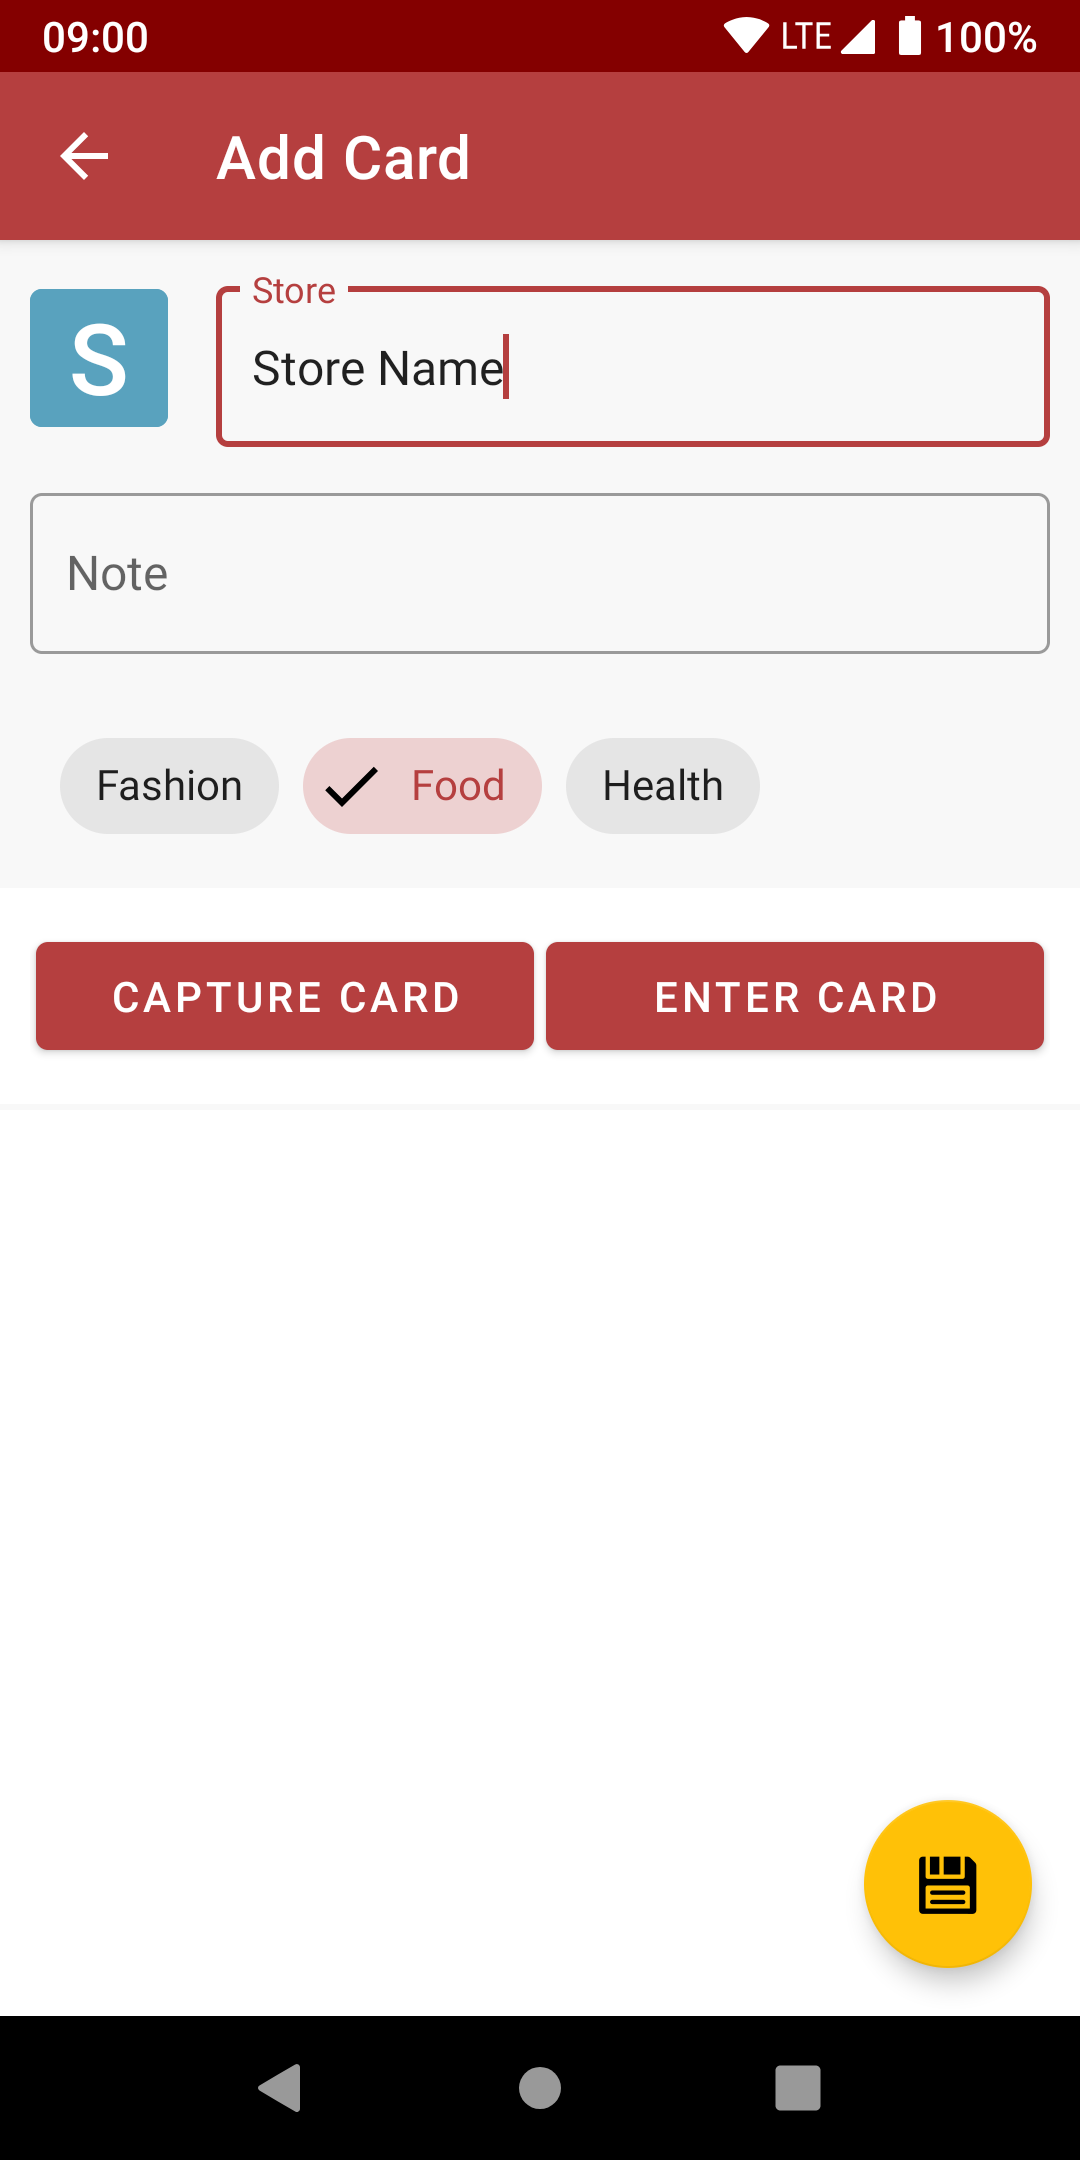
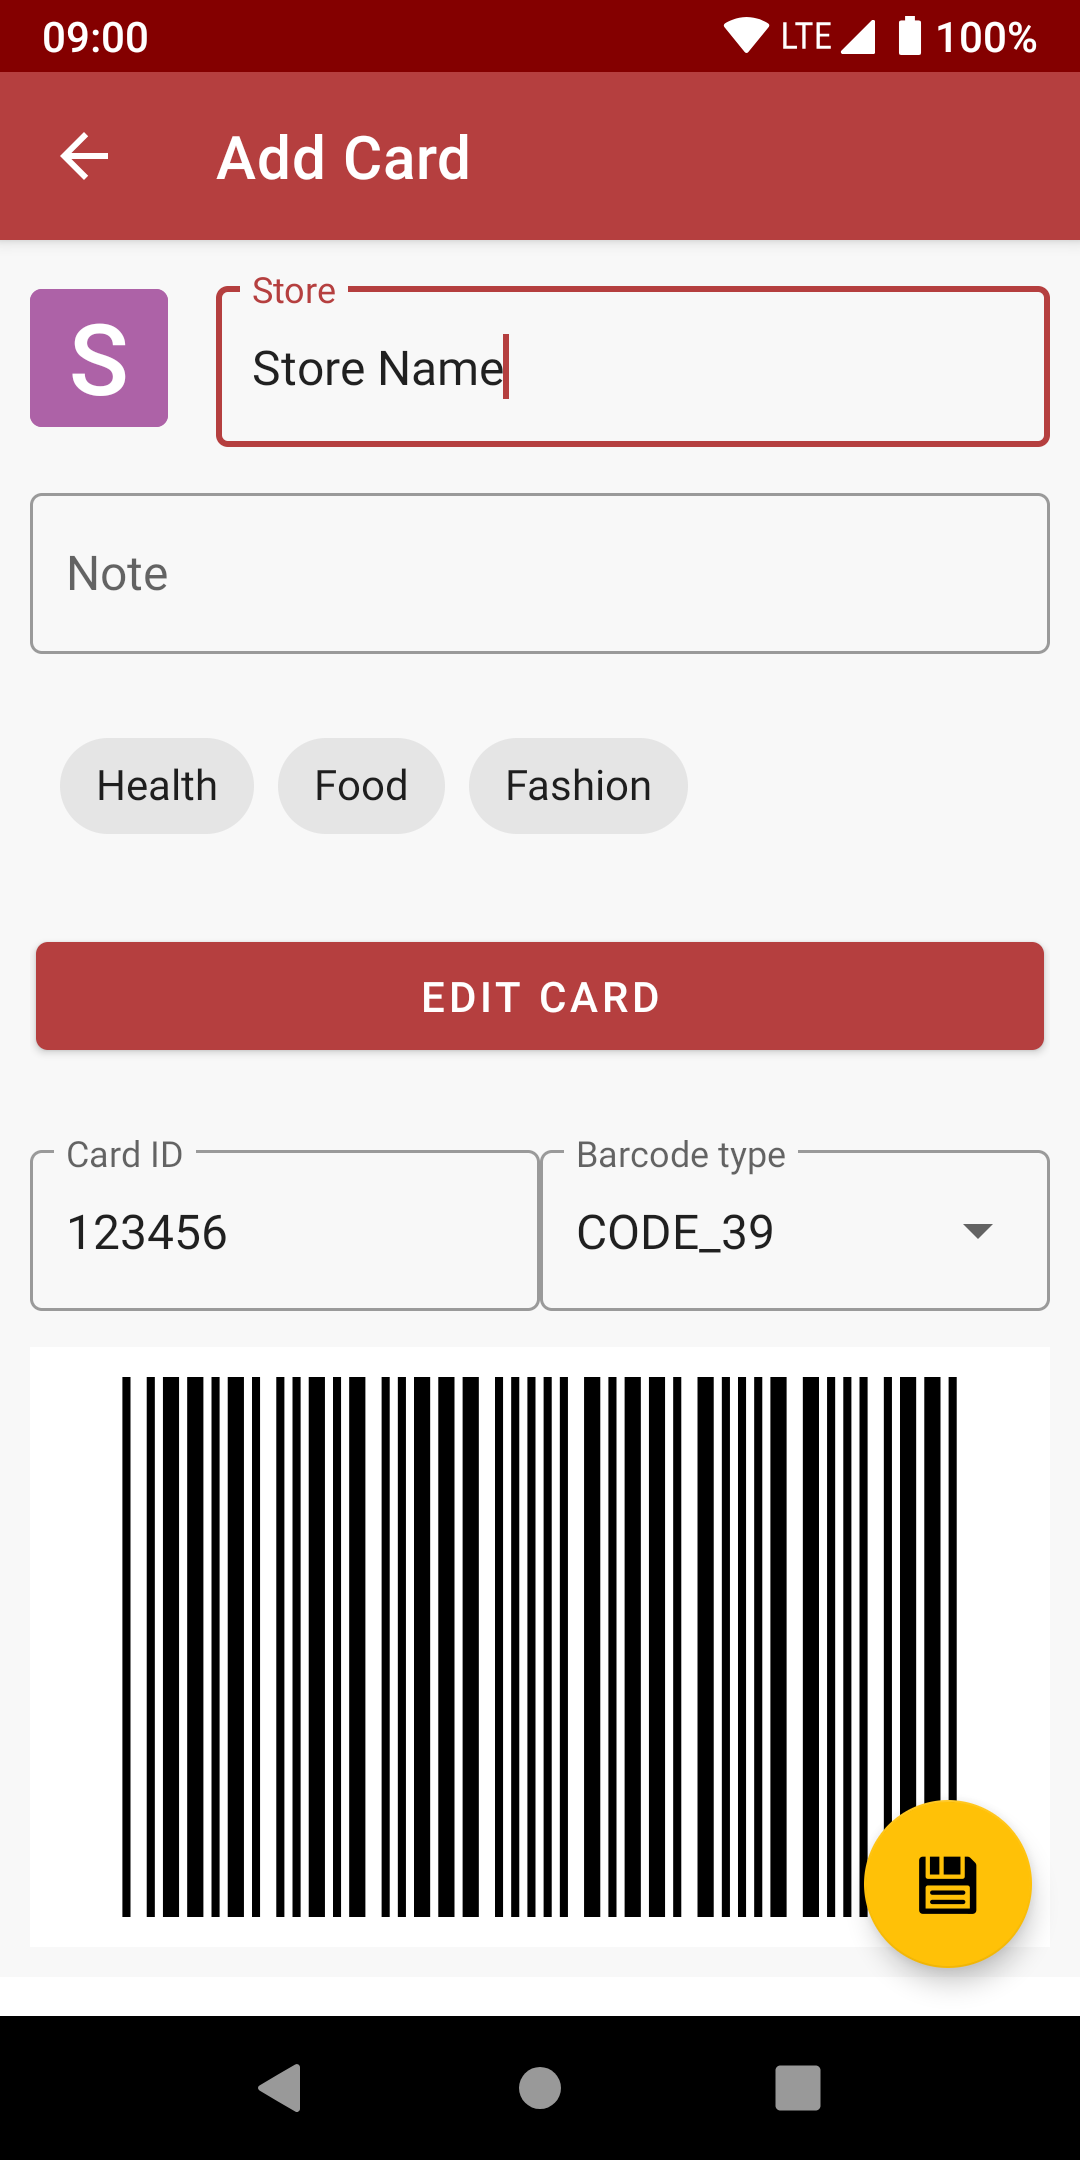
Small UI cleanups

diff --git a/app/src/main/java/protect/card_locker/LoyaltyCardEditActivity.java b/app/src/main/java/protect/card_locker/LoyaltyCardEditActivity.java
@@ -356,17 +356,6 @@ public class LoyaltyCardEditActivity extends AppCompatActivity
         enterButton.setOnClickListener(new EditCardIdAndBarcode());
         barcodeImage.setOnClickListener(new EditCardIdAndBarcode());
 
-        if(cardIdFieldView.getText().length() > 0)
-        {
-            cardAndBarcodeLayout.setVisibility(View.VISIBLE);
-            enterButton.setText(R.string.editCard);
-        }
-        else
-        {
-            cardAndBarcodeLayout.setVisibility(View.GONE);
-            enterButton.setText(R.string.enterCard);
-        }
-
         ArrayList<String> barcodeList = new ArrayList<>(BarcodeSelectorActivity.SUPPORTED_BARCODE_TYPES);
         barcodeList.add(0, getString(R.string.noBarcode));
         ArrayAdapter<String> barcodeAdapter = new ArrayAdapter<>(this, android.R.layout.select_dialog_item, barcodeList);
